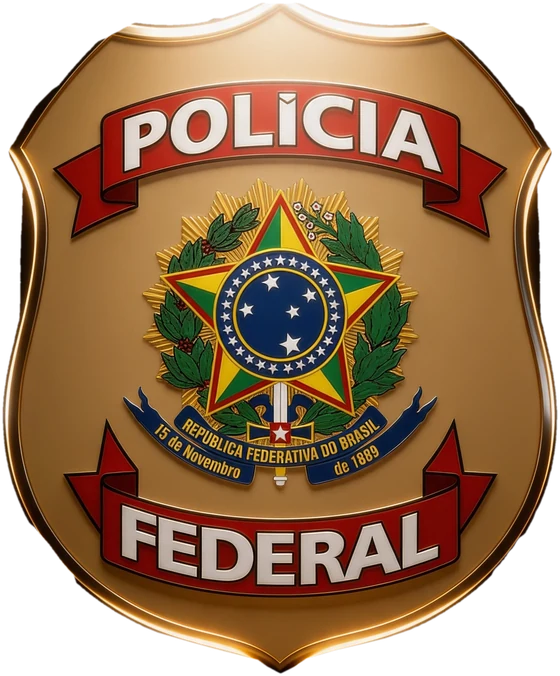
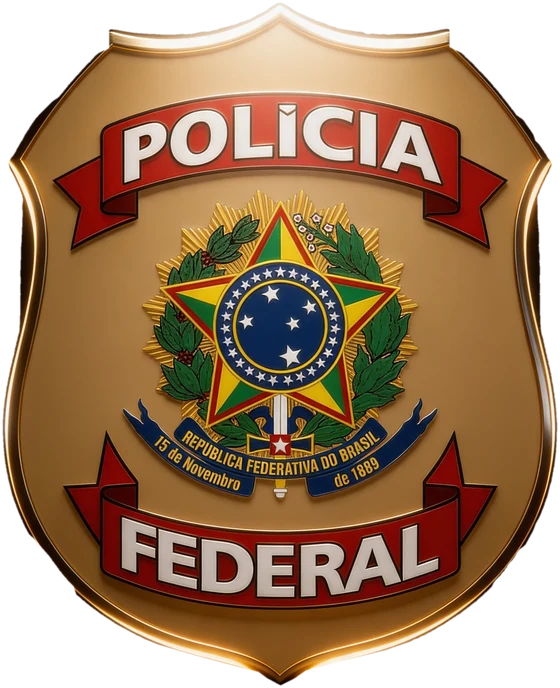
Hero: restaura a ponta superior do distintivo e torna a poeira mais visível
Claude-Session: https://claude.ai/code/session_01Pp3UKopzu9BbcKgCUX5cpy

Changed region(s): [[0.0, 0.0, 1.0, 0.963], [0.1518, 0.7456, 0.1821, 0.8077]]

diff --git a/index.html b/index.html
@@ -614,7 +614,7 @@
   <header class="hero">
     <div class="hero-inner">
       <div class="hero-palco" id="hero-palco">
-        <img class="hero-badge" src="distintivo-pf.webp" alt="Distintivo da Polícia Federal" width="560" height="676" fetchpriority="high" decoding="async">
+        <img class="hero-badge" src="distintivo-pf.webp" alt="Distintivo da Polícia Federal" width="560" height="688" fetchpriority="high" decoding="async">
         <div class="hero-feixe" aria-hidden="true"></div>
         <canvas class="hero-po" id="hero-po" aria-hidden="true"></canvas>
       </div>
@@ -657,8 +657,8 @@
         }
         bx = b.left - r.left; by = b.top - r.top; bw = b.width; bh = b.height;
         if (!P.length) {
-          const n = Math.max(26, Math.round(cw * ch / 2100));
-          for (let i = 0; i < n; i++) P.push({ x: rnd(0, cw), y: rnd(0, ch), r: 0.5 + Math.pow(Math.random(), 2) * 1.5, ph: rnd(0, 6.28), f1: rnd(0.15, 0.5), f2: rnd(0.12, 0.4), tf: rnd(0.6, 1.8), sp: rnd(0.6, 1.4), dx: rnd(-2, 2), vy: rnd(-7, 4) });
+          const n = Math.max(44, Math.round(cw * ch / 1500));
+          for (let i = 0; i < n; i++) P.push({ x: rnd(0, cw), y: rnd(0, ch), r: 0.6 + Math.pow(Math.random(), 1.6) * 2, ph: rnd(0, 6.28), f1: rnd(0.15, 0.5), f2: rnd(0.12, 0.4), tf: rnd(0.6, 1.8), sp: rnd(0.6, 1.4), dx: rnd(-2, 2), vy: rnd(-7, 4) });
         } else if (ow && oh) { P.forEach(p => { p.x *= cw / ow; p.y *= ch / oh; }); }
         return true;
       }
@@ -670,18 +670,18 @@
           cone = (1 - suave(Math.abs(x - cx) / meia)) * (1 - 0.55 * k);
         }
         const dx = (x - cx) / (bw * 1.2), dy = (y - (by + bh / 2)) / (bh * 0.86), d = Math.sqrt(dx * dx + dy * dy);
-        const amb = d < 1 ? Math.pow(1 - d, 0.8) : 0;
+        const amb = d < 1 ? Math.pow(1 - d, 0.6) : 0;
         return [cone, amb];
       }
       function desenhar() {
         ctx.setTransform(dpr, 0, 0, dpr, 0, 0); ctx.clearRect(0, 0, cw, ch);
         ctx.globalCompositeOperation = 'lighter';
         for (let i = 0; i < P.length; i++) {
-          const p = P[i], c = luz(p.x, p.y), w = Math.max(c[0] * beamK, c[1] * ambK);
+          const p = P[i], c = luz(p.x, p.y), w = Math.min(1, Math.max(c[0] * beamK, c[1] * ambK) * 1.4);
           if (w < 0.02) continue;
-          let a = w * (0.55 + 0.45 * Math.sin(t * p.tf + p.ph)) * (1.1 + p.r * 0.5);
+          let a = w * (0.55 + 0.45 * Math.sin(t * p.tf + p.ph)) * (1.3 + p.r * 0.5);
           if (p.x > bx + bw * 0.04 && p.x < bx + bw * 0.96 && p.y > by + bh * 0.04 && p.y < by + bh * 0.96) a *= 0.3;
-          const s = 3 + p.r * 5.5;
+          const s = 4 + p.r * 7;
           ctx.globalAlpha = Math.min(1, a); ctx.drawImage(spr, p.x - s / 2, p.y - s / 2, s, s);
         }
         ctx.globalAlpha = 1;
@@ -690,6 +690,7 @@
         raf = 0;
         if (!visivel || document.hidden) { last = 0; return; }
         raf = requestAnimationFrame(passo);
+        if (!P.length && !medir()) return;
         if (last && ts - last < 30) return;
         const dt = last ? Math.min(0.06, (ts - last) / 1000) : 0.016; last = ts; t += dt;
         const aceso = palco.classList.contains('is-aceso'), fim = palco.classList.contains('is-final');
@@ -704,11 +705,11 @@
         }
         desenhar();
       }
-      function girar() { if (!raf && visivel && !document.hidden && ctx && P.length) raf = requestAnimationFrame(passo); }
+      function girar() { if (!raf && visivel && !document.hidden && ctx) raf = requestAnimationFrame(passo); }
       function iniciar() {
         if (comecou) return; comecou = true;
         medir();
-        if (reduz) { palco.classList.add('is-aceso', 'is-final'); ambK = 1; if (ctx && P.length) desenhar(); return; }
+        if (reduz) { palco.classList.add('is-aceso', 'is-final'); ambK = 1; t = 1.7; if (ctx && P.length) desenhar(); return; }
         setTimeout(() => palco.classList.add('is-aceso'), 350);
         setTimeout(() => palco.classList.add('is-final'), 3900);
         girar();
